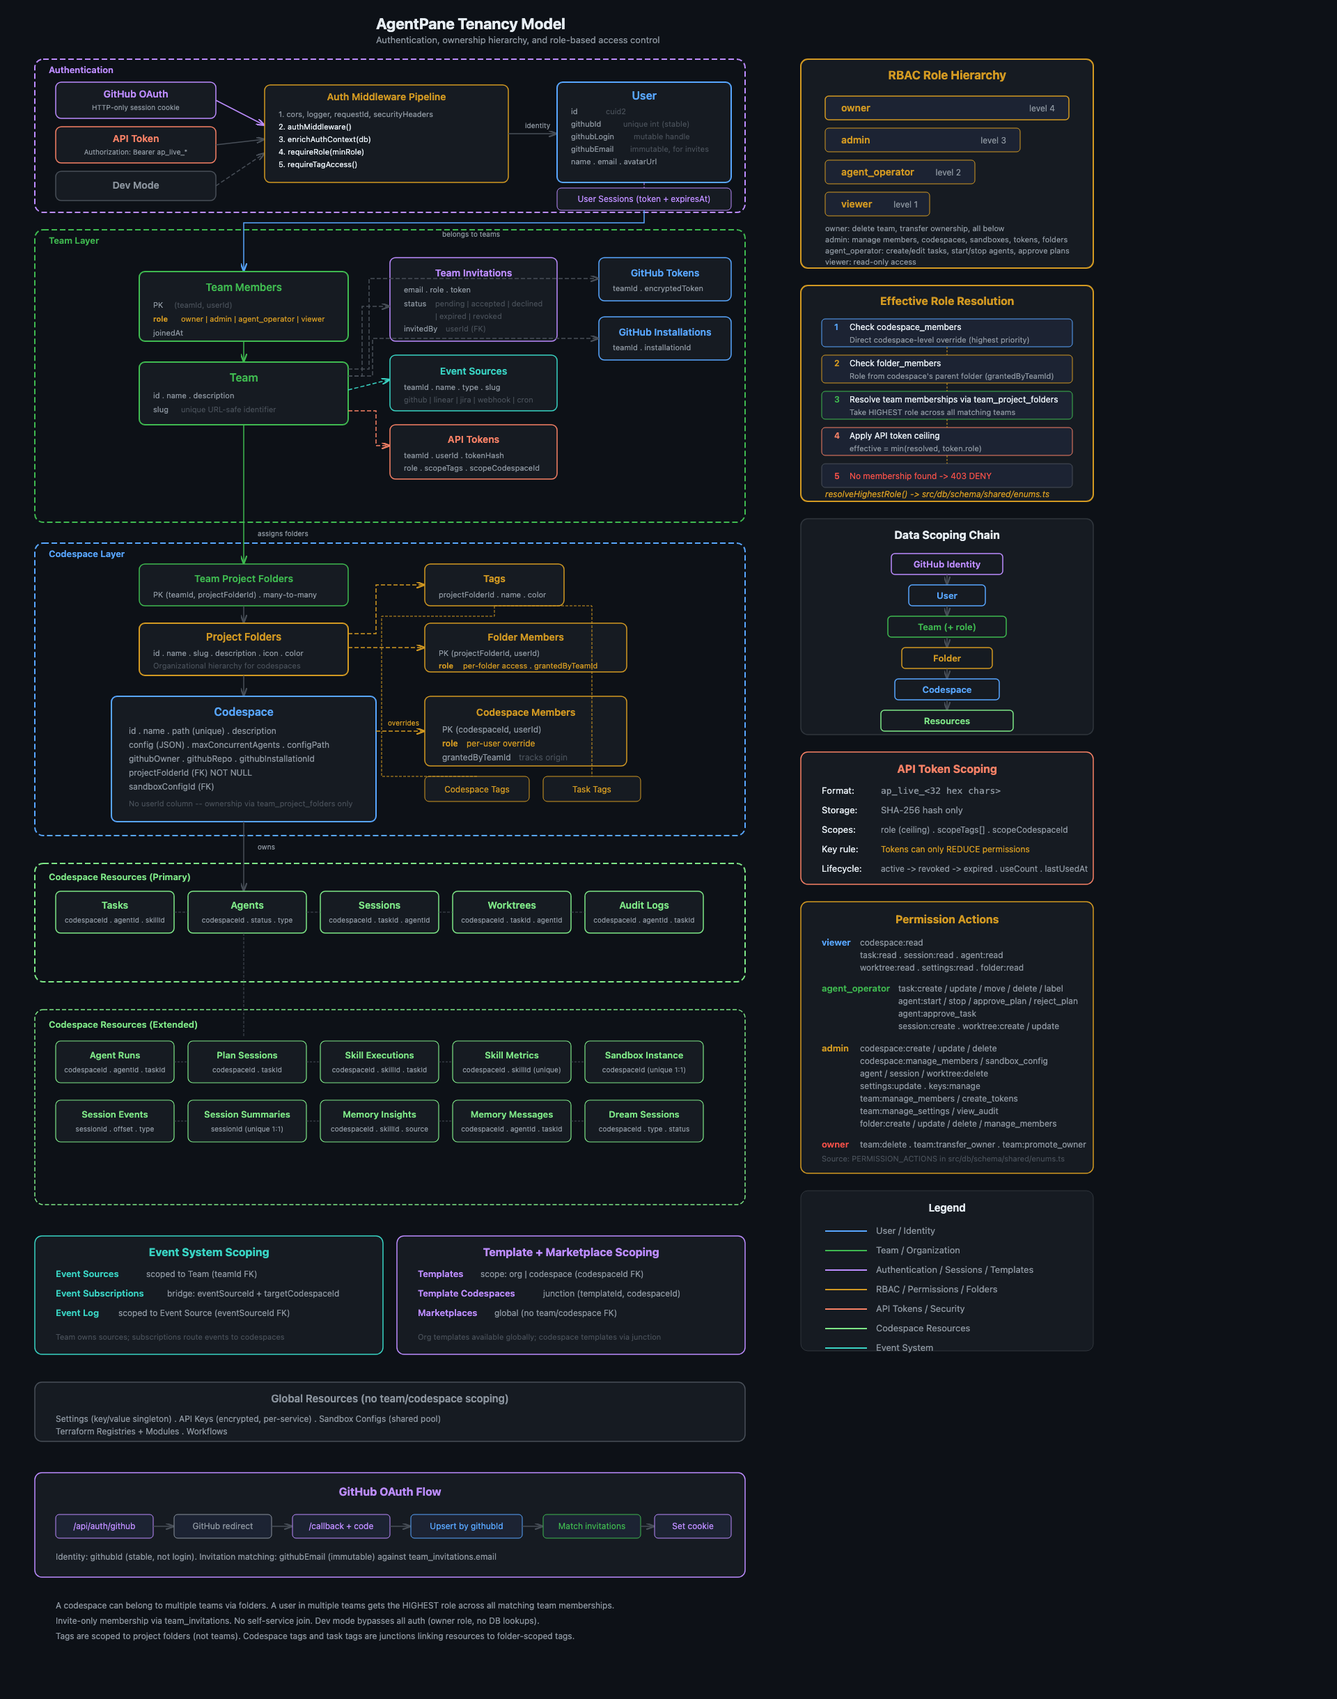
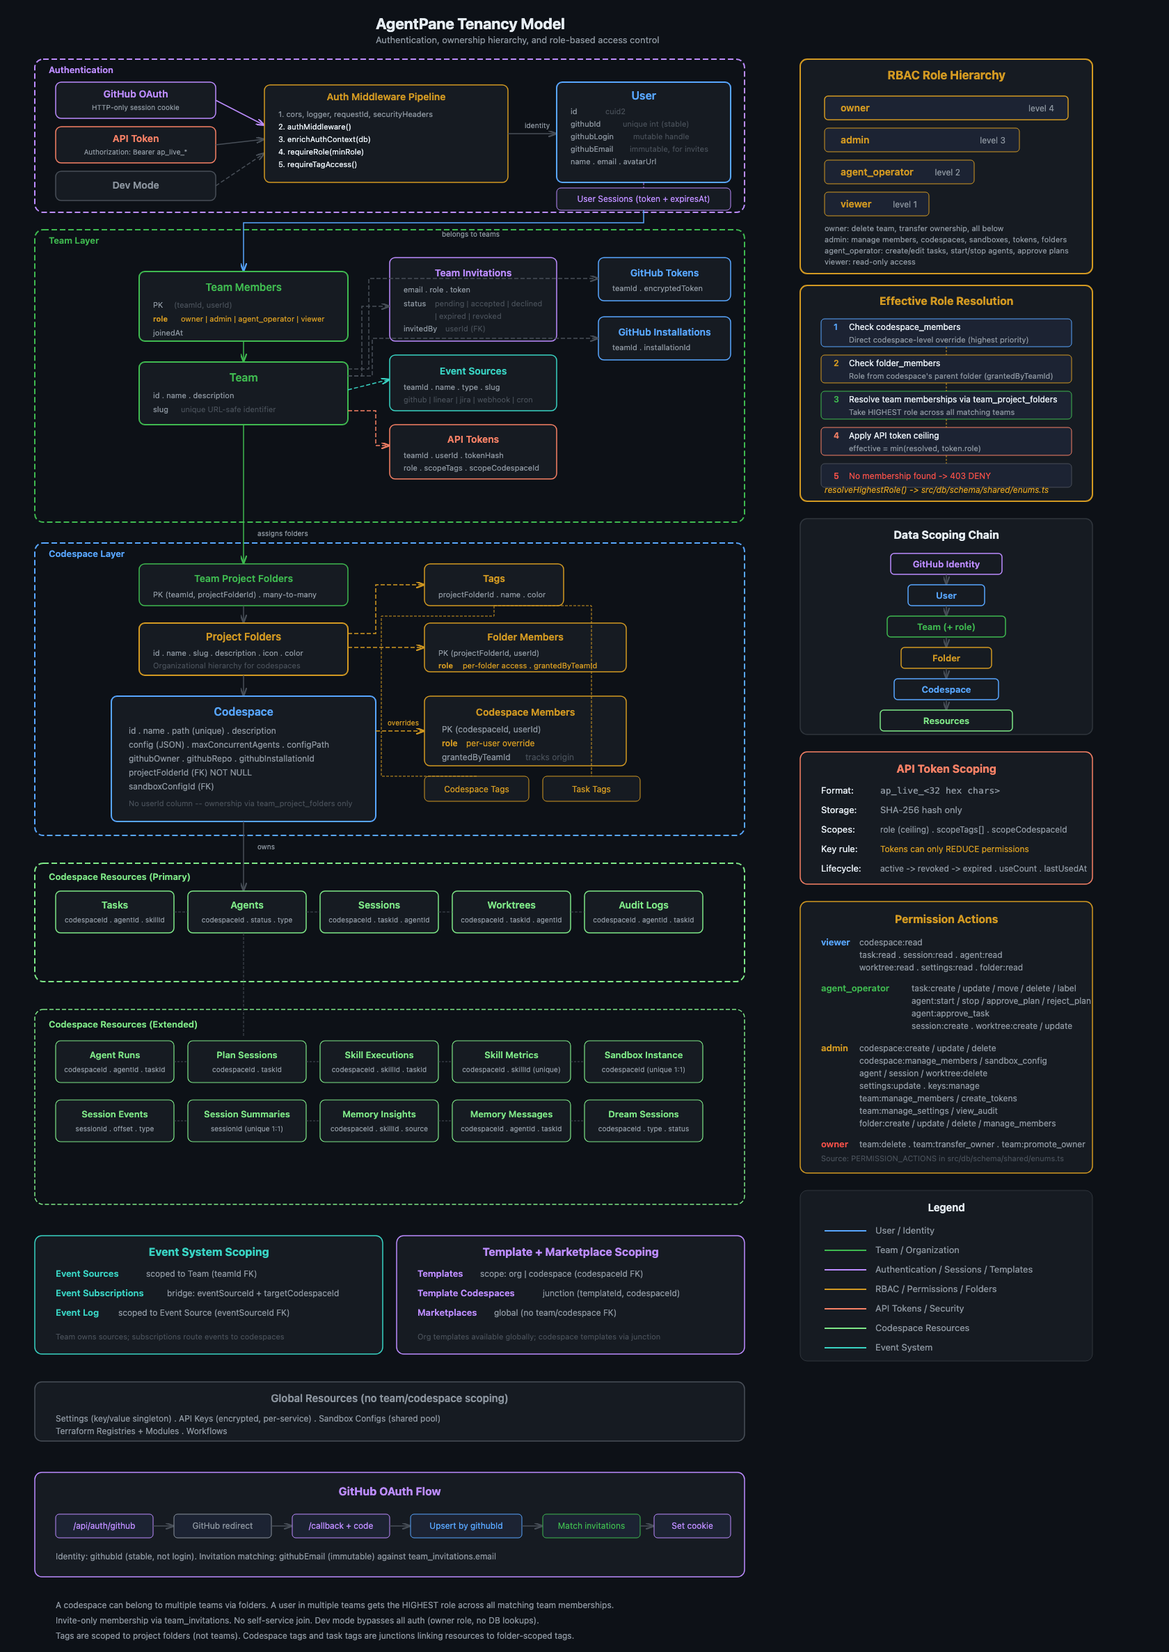
fix: resolve overlapping elements across all architecture diagrams
- Architecture: move Event System Tables text into its rect, relocate
  Memory section inside Host boundary as vertical column, reroute
  AgentCore arrow, move badge above service boxes row, expand Service
  Layer rect
- Durable Streams: expand 6 rects to contain overflowing text, fix SSE
  label position, increase text gap in Dual-Write section
- Tenancy Model: expand Legend and RBAC rects, increase agent_operator
  permission text spacing, fix grantedByTeamId gap, adjust
  resolveHighestRole position
- OpenShift: expand Pod rect to contain bottom element

Changed region(s): [[0.031, 0.0, 0.9286, 0.8108], [0.031, 0.7172, 0.65, 0.9979], [0.2786, 0.7172, 0.3095, 0.7484]]

diff --git a/docs/_architecture-diagram.html b/docs/_architecture-diagram.html
@@ -207,7 +207,7 @@ svg { display: block; }
 <text x="794" y="248" fill="#bc8cff" font-size="10">SSE</text>
 
 <!-- ==================== SERVICE LAYER ==================== -->
-<rect x="70" y="335" width="700" height="58" rx="8" fill="#161b22" stroke="#58a6ff" stroke-width="1.5"/>
+<rect x="70" y="335" width="700" height="66" rx="8" fill="#161b22" stroke="#58a6ff" stroke-width="1.5"/>
 <text x="420" y="355" text-anchor="middle" fill="#58a6ff" font-size="13" font-weight="600">Service Layer</text>
 <text x="420" y="372" text-anchor="middle" fill="#8b949e" font-size="10">Agent · Task · Session · Codespace · Workflow · Template · Marketplace · RBAC · Git · GitHubApp</text>
 <text x="420" y="386" text-anchor="middle" fill="#8b949e" font-size="9">CLIMonitor · ContainerAgent · PlanApproval · AgentQueue · SandboxConfig · TerraformCompose · TerraformRegistry</text>
@@ -294,7 +294,7 @@ svg { display: block; }
 <line x1="162" y1="768" x2="162" y2="1030" stroke="#484f58" stroke-width="1.5" stroke-dasharray="6,3" opacity="0.3" marker-end="url(#arrow-gray)"/>
 <line x1="362" y1="768" x2="520" y2="1030" stroke="#484f58" stroke-width="1.5" stroke-dasharray="6,3" opacity="0.3" marker-end="url(#arrow-gray)"/>
 <line x1="562" y1="768" x2="830" y2="1030" stroke="#484f58" stroke-width="1.5" stroke-dasharray="6,3" opacity="0.3" marker-end="url(#arrow-gray)"/>
-<path d="M 770 768 L 770 770 L 1160 770 L 1160 1030" fill="none" stroke="#f69d50" stroke-width="1.5" stroke-dasharray="6,3" opacity="0.4" marker-end="url(#arrow-aws)"/>
+<path d="M 770 768 L 770 770 L 960 770 L 960 1005 L 1185 1005 L 1185 1030" fill="none" stroke="#f69d50" stroke-width="1.5" stroke-dasharray="6,3" opacity="0.4" marker-end="url(#arrow-aws)"/>
 
 <!-- ==================== LEGEND ==================== -->
 <rect x="1250" y="400" width="420" height="220" rx="10" fill="#161b22" stroke="#30363d" stroke-width="1"/>
@@ -340,58 +340,61 @@ svg { display: block; }
 <text x="792" y="521" text-anchor="middle" fill="#8b949e" font-size="9">→ PostgreSQL (Remote)</text>
 
 <!-- ==================== Event System Tables ==================== -->
-<rect x="1250" y="780" width="420" height="140" rx="10" fill="#161b22" stroke="#d29922" stroke-width="1.5" stroke-dasharray="6,3"/>
-<text x="1460" y="722" text-anchor="middle" fill="#d29922" font-size="13" font-weight="600">Event System Tables</text>
+<rect x="1250" y="770" width="420" height="150" rx="10" fill="#161b22" stroke="#d29922" stroke-width="1.5" stroke-dasharray="6,3"/>
+<text x="1460" y="795" text-anchor="middle" fill="#d29922" font-size="13" font-weight="600">Event System Tables</text>
 
-<text x="1280" y="748" fill="#8b949e" font-size="12">eventSources</text>
-<text x="1280" y="770" fill="#8b949e" font-size="12">eventSubscriptions</text>
-<text x="1280" y="792" fill="#8b949e" font-size="12">eventLog</text>
-<text x="1280" y="814" fill="#8b949e" font-size="12">scheduleExecutions</text>
+<text x="1280" y="820" fill="#8b949e" font-size="12">eventSources</text>
+<text x="1280" y="842" fill="#8b949e" font-size="12">eventSubscriptions</text>
+<text x="1280" y="864" fill="#8b949e" font-size="12">eventLog</text>
+<text x="1280" y="886" fill="#8b949e" font-size="12">scheduleExecutions</text>
 
-<text x="1470" y="748" fill="#484f58" font-size="11">sources + secrets</text>
-<text x="1470" y="770" fill="#484f58" font-size="11">event → task maps</text>
-<text x="1470" y="792" fill="#484f58" font-size="11">processing history</text>
-<text x="1470" y="814" fill="#484f58" font-size="11">cron execution audit</text>
+<text x="1470" y="820" fill="#484f58" font-size="11">sources + secrets</text>
+<text x="1470" y="842" fill="#484f58" font-size="11">event → task maps</text>
+<text x="1470" y="864" fill="#484f58" font-size="11">processing history</text>
+<text x="1470" y="886" fill="#484f58" font-size="11">cron execution audit</text>
 
 <!-- Connection: Event tables -> Drizzle ORM — annotation badge -->
-<rect x="1250" y="830" width="120" height="16" rx="3" fill="#161b22" stroke="#d29922" stroke-width="0.5"/>
-<text x="1310" y="841" text-anchor="middle" fill="#d29922" font-size="9">← Drizzle ORM</text>
+<rect x="1250" y="900" width="120" height="16" rx="3" fill="#161b22" stroke="#d29922" stroke-width="0.5"/>
+<text x="1310" y="911" text-anchor="middle" fill="#d29922" font-size="9">← Drizzle ORM</text>
 
-<!-- ==================== MEMORY LAYER ==================== -->
-<rect x="1340" y="880" width="370" height="240" rx="10" fill="none" stroke="#a855f7" stroke-width="2" stroke-dasharray="8,4"/>
-<text x="1360" y="905" fill="#a855f7" font-size="13" font-weight="600">Agentic Self-Improving Memory</text>
+<!-- ==================== MEMORY LAYER (vertical layout inside Host) ==================== -->
+<rect x="985" y="585" width="190" height="420" rx="10" fill="none" stroke="#a855f7" stroke-width="2" stroke-dasharray="8,4"/>
+<text x="1080" y="607" text-anchor="middle" fill="#a855f7" font-size="12" font-weight="600">Agentic Self-Improving</text>
+<text x="1080" y="622" text-anchor="middle" fill="#a855f7" font-size="12" font-weight="600">Memory</text>
 
-<!-- MemoryStore (DB-backed) -->
-<rect x="1360" y="920" width="165" height="58" rx="8" fill="#161b22" stroke="#a855f7" stroke-width="1.5"/>
-<text x="1442" y="944" text-anchor="middle" fill="#a855f7" font-size="13" font-weight="600">MemoryStore</text>
-<text x="1442" y="964" text-anchor="middle" fill="#8b949e" font-size="10">observations · insights · recall</text>
+<!-- MemoryStore -->
+<rect x="995" y="635" width="170" height="52" rx="8" fill="#161b22" stroke="#a855f7" stroke-width="1.5"/>
+<text x="1080" y="657" text-anchor="middle" fill="#a855f7" font-size="12" font-weight="600">MemoryStore</text>
+<text x="1080" y="674" text-anchor="middle" fill="#8b949e" font-size="9">observations · insights · recall</text>
 
 <!-- DreamService -->
-<rect x="1540" y="920" width="155" height="58" rx="8" fill="#161b22" stroke="#a855f7" stroke-width="1.5"/>
-<text x="1617" y="944" text-anchor="middle" fill="#a855f7" font-size="13" font-weight="600">DreamService</text>
-<text x="1617" y="964" text-anchor="middle" fill="#8b949e" font-size="10">self-improving · Claude</text>
+<rect x="995" y="697" width="170" height="52" rx="8" fill="#161b22" stroke="#a855f7" stroke-width="1.5"/>
+<text x="1080" y="719" text-anchor="middle" fill="#a855f7" font-size="12" font-weight="600">DreamService</text>
+<text x="1080" y="736" text-anchor="middle" fill="#8b949e" font-size="9">self-improving · Claude</text>
 
 <!-- InsightDeriver -->
-<rect x="1360" y="994" width="165" height="44" rx="7" fill="#161b22" stroke="#a855f7" stroke-width="1"/>
-<text x="1442" y="1014" text-anchor="middle" fill="#a855f7" font-size="12" font-weight="600">InsightDeriver</text>
-<text x="1442" y="1030" text-anchor="middle" fill="#8b949e" font-size="9">derives recommendations</text>
+<rect x="995" y="759" width="170" height="42" rx="7" fill="#161b22" stroke="#a855f7" stroke-width="1"/>
+<text x="1080" y="779" text-anchor="middle" fill="#a855f7" font-size="11" font-weight="600">InsightDeriver</text>
+<text x="1080" y="794" text-anchor="middle" fill="#8b949e" font-size="9">derives recommendations</text>
 
 <!-- SkillTracking -->
-<rect x="1540" y="994" width="155" height="44" rx="7" fill="#161b22" stroke="#a855f7" stroke-width="1"/>
-<text x="1617" y="1014" text-anchor="middle" fill="#a855f7" font-size="12" font-weight="600">SkillTracking</text>
-<text x="1617" y="1030" text-anchor="middle" fill="#8b949e" font-size="9">execution metrics · scoring</text>
+<rect x="995" y="811" width="170" height="42" rx="7" fill="#161b22" stroke="#a855f7" stroke-width="1"/>
+<text x="1080" y="831" text-anchor="middle" fill="#a855f7" font-size="11" font-weight="600">SkillTracking</text>
+<text x="1080" y="846" text-anchor="middle" fill="#8b949e" font-size="9">execution metrics · scoring</text>
 
-<!-- DreamScheduler (thin bar below) -->
-<rect x="1360" y="1054" width="335" height="24" rx="4" fill="#161b22" stroke="#a855f7" stroke-width="1"/>
-<text x="1527" y="1070" text-anchor="middle" fill="#8b949e" font-size="10">DreamScheduler · 24h self-improvement cycle</text>
+<!-- DreamScheduler -->
+<rect x="995" y="863" width="170" height="32" rx="4" fill="#161b22" stroke="#a855f7" stroke-width="1"/>
+<text x="1080" y="880" text-anchor="middle" fill="#a855f7" font-size="10" font-weight="600">DreamScheduler</text>
+<text x="1080" y="892" text-anchor="middle" fill="#8b949e" font-size="8">24h self-improvement cycle</text>
 
-<!-- Connection: MemoryStore -> InsightDeriver -->
-<line x1="1442" y1="978" x2="1442" y2="994" stroke="#a855f7" stroke-width="1" stroke-dasharray="4,2"/>
-<line x1="1617" y1="978" x2="1617" y2="994" stroke="#a855f7" stroke-width="1" stroke-dasharray="4,2"/>
+<!-- Vertical connectors inside Memory column -->
+<line x1="1080" y1="687" x2="1080" y2="697" stroke="#a855f7" stroke-width="1" stroke-dasharray="4,2"/>
+<line x1="1080" y1="749" x2="1080" y2="759" stroke="#a855f7" stroke-width="1" stroke-dasharray="4,2"/>
+<line x1="1080" y1="801" x2="1080" y2="811" stroke="#a855f7" stroke-width="1" stroke-dasharray="4,2"/>
+<line x1="1080" y1="853" x2="1080" y2="863" stroke="#a855f7" stroke-width="1" stroke-dasharray="4,2"/>
 
-<!-- Connection: MemoryService -> Memory Layer (routed through right corridor x=1230) -->
-<path d="M 152 619 L 152 632 L 1230 632 L 1230 920 L 1340 920" fill="none" stroke="#a855f7" stroke-width="2" marker-end="url(#arrow-memory)"/>
-<text x="1235" y="740" fill="#a855f7" font-size="10" font-weight="600" writing-mode="tb">memory queries</text>
+<!-- Connection: MemoryService -> Memory column (routed below injector row) -->
+<path d="M 152 619 L 152 632 L 985 632" fill="none" stroke="#a855f7" stroke-width="2" marker-end="url(#arrow-memory)"/>
 
 <!-- ==================== RUNTIME / CLUSTER SECTIONS ==================== -->
 
@@ -600,8 +603,8 @@ svg { display: block; }
 <rect x="1182" y="264" width="85" height="18" rx="4" fill="#161b22" stroke="#d29922" stroke-width="1"/>
 <text x="1224" y="277" text-anchor="middle" fill="#d29922" font-size="9">← GitHub webhooks</text>
 <!-- Badge on GitHub Webhooks: targets Event System -->
-<rect x="895" y="1690" width="195" height="14" rx="3" fill="#161b22" stroke="#d29922" stroke-width="0.5"/>
-<text x="992" y="1700" text-anchor="middle" fill="#d29922" font-size="8">→ Event System (Event Processing)</text>
+<rect x="895" y="1674" width="195" height="14" rx="3" fill="#161b22" stroke="#d29922" stroke-width="0.5"/>
+<text x="992" y="1684" text-anchor="middle" fill="#d29922" font-size="8">→ Event System (Event Processing)</text>
 
 <!-- Connections: containers -> Anthropic API -->
 <line x1="190" y1="1206" x2="190" y2="1638" stroke="#bc8cff" stroke-width="1.5" stroke-dasharray="6,3" marker-end="url(#arrow-purple)"/>

diff --git a/docs/_durable-streams-architecture.html b/docs/_durable-streams-architecture.html
@@ -76,7 +76,7 @@ svg { display: block; }
 <text x="75" y="471" fill="#8b949e" font-size="9">Stream ID: terraform:{jobId} (7 types)</text>
 
 <!-- Task Creation Service -->
-<rect x="65" y="504" width="230" height="90" rx="7" fill="#161b22" stroke="#f0883e" stroke-width="1.5"/>
+<rect x="65" y="504" width="230" height="92" rx="7" fill="#161b22" stroke="#f0883e" stroke-width="1.5"/>
 <text x="180" y="524" text-anchor="middle" fill="#f0883e" font-size="12" font-weight="600">Task Creation Service</text>
 <text x="75" y="544" fill="#8b949e" font-size="9">task-creation:started · message · token</text>
 <text x="75" y="558" fill="#8b949e" font-size="9">task-creation:suggestion · questions · processing</text>
@@ -154,7 +154,7 @@ svg { display: block; }
 <text x="360" y="734" fill="#8b949e" font-size="9">Batched text -> SQLite (durable) · 100ms flush / 10 max</text>
 
 <!-- ==================== SQLite DB (below batcher) ==================== -->
-<rect x="340" y="770" width="310" height="130" rx="10" fill="#161b22" stroke="#7ee787" stroke-width="2"/>
+<rect x="340" y="770" width="310" height="132" rx="10" fill="#161b22" stroke="#7ee787" stroke-width="2"/>
 <text x="495" y="795" text-anchor="middle" fill="#7ee787" font-size="14" font-weight="600">SQLite: sessionEvents</text>
 <text x="495" y="813" text-anchor="middle" fill="#8b949e" font-size="10">session-events.ts (Drizzle ORM)</text>
 
@@ -210,7 +210,7 @@ svg { display: block; }
 <text x="915" y="566" text-anchor="middle" fill="#8b949e" font-size="9">Offset-based resume</text>
 
 <!-- Stream URL routing -->
-<rect x="710" y="590" width="270" height="155" rx="6" fill="#1c2333" stroke="#d29922" stroke-width="1"/>
+<rect x="710" y="590" width="270" height="158" rx="6" fill="#1c2333" stroke="#d29922" stroke-width="1"/>
 <text x="845" y="612" text-anchor="middle" fill="#d29922" font-size="11" font-weight="600">Stream URL Routing</text>
 <text x="720" y="634" fill="#8b949e" font-size="9">/v1/stream/sessions/{sessionId}</text>
 <text x="720" y="650" fill="#8b949e" font-size="9">/v1/stream/plans/{sessionId}</text>
@@ -287,8 +287,8 @@ svg { display: block; }
 
 <!-- Connection: Caddy SSE -> Client -->
 <path d="M 980 540 L 1020 540 L 1020 240 L 1060 240" fill="none" stroke="#3fb950" stroke-width="2" marker-end="url(#arrow-green)"/>
-<rect x="1013" y="370" width="38" height="16" rx="3" fill="#0d1117" stroke="#3fb950" stroke-width="0.5"/>
-<text x="1032" y="382" text-anchor="middle" fill="#3fb950" font-size="10">SSE</text>
+<rect x="1001" y="370" width="38" height="16" rx="3" fill="#0d1117" stroke="#3fb950" stroke-width="0.5"/>
+<text x="1020" y="382" text-anchor="middle" fill="#3fb950" font-size="10">SSE</text>
 
 <!-- ==================== COL 5: UI APPLICATION ==================== -->
 <rect x="1410" y="120" width="460" height="650" rx="10" fill="none" stroke="#58a6ff" stroke-width="1.5" stroke-dasharray="8,4"/>
@@ -304,7 +304,7 @@ svg { display: block; }
 <text x="1445" y="254" fill="#8b949e" font-size="9">Active sync tracking: Map&lt;sessionId, Subscription&gt;</text>
 
 <!-- TanStack DB Collections -->
-<rect x="1430" y="278" width="420" height="230" rx="8" fill="#161b22" stroke="#58a6ff" stroke-width="1.5"/>
+<rect x="1430" y="278" width="420" height="236" rx="8" fill="#161b22" stroke="#58a6ff" stroke-width="1.5"/>
 <text x="1640" y="300" text-anchor="middle" fill="#58a6ff" font-size="14" font-weight="600">TanStack DB Collections</text>
 <text x="1640" y="318" text-anchor="middle" fill="#8b949e" font-size="10">lib/sessions/collections.ts + domain-specific collections</text>
 
@@ -347,7 +347,7 @@ svg { display: block; }
 <text x="1445" y="504" fill="#8b949e" font-size="9">@tanstack/db + @tanstack/react-db</text>
 
 <!-- React Hooks -->
-<rect x="1430" y="530" width="200" height="100" rx="8" fill="#161b22" stroke="#58a6ff" stroke-width="2"/>
+<rect x="1430" y="530" width="200" height="102" rx="8" fill="#161b22" stroke="#58a6ff" stroke-width="2"/>
 <text x="1530" y="554" text-anchor="middle" fill="#58a6ff" font-size="13" font-weight="600">useSession()</text>
 <text x="1530" y="572" text-anchor="middle" fill="#8b949e" font-size="10">hooks/use-session.ts</text>
 <text x="1445" y="594" fill="#8b949e" font-size="9">useSessionSubscription()</text>
@@ -355,7 +355,7 @@ svg { display: block; }
 <text x="1445" y="622" fill="#8b949e" font-size="9">Returns reactive UI state</text>
 
 <!-- Reactive UI -->
-<rect x="1650" y="530" width="200" height="100" rx="8" fill="#161b22" stroke="#3fb950" stroke-width="1.5"/>
+<rect x="1650" y="530" width="200" height="102" rx="8" fill="#161b22" stroke="#3fb950" stroke-width="1.5"/>
 <text x="1750" y="554" text-anchor="middle" fill="#3fb950" font-size="13" font-weight="600">Reactive UI</text>
 <text x="1750" y="572" text-anchor="middle" fill="#8b949e" font-size="10">React components</text>
 <text x="1660" y="594" fill="#8b949e" font-size="9">Agent session panel</text>
@@ -394,7 +394,7 @@ svg { display: block; }
 <rect x="50" y="1062" width="350" height="92" rx="8" fill="#161b22" stroke="#7ee787" stroke-width="1.5"/>
 <text x="225" y="1084" text-anchor="middle" fill="#7ee787" font-size="12" font-weight="600">Dual-Write Pattern</text>
 <text x="65" y="1104" fill="#3fb950" font-size="10" font-weight="600">1. SQLite (source of truth)</text>
-<text x="240" y="1104" fill="#8b949e" font-size="10">-> persisted first, always available</text>
+<text x="250" y="1104" fill="#8b949e" font-size="10">-> persisted first, always available</text>
 <text x="65" y="1122" fill="#bc8cff" font-size="10" font-weight="600">2. Caddy/LMDB (real-time)</text>
 <text x="260" y="1122" fill="#8b949e" font-size="10">-> on-disk SSE stream delivery</text>
 <text x="65" y="1140" fill="#8b949e" font-size="10">LMDB enables offset-based resume after reconnect</text>

diff --git a/docs/_tenancy-model.html b/docs/_tenancy-model.html
@@ -234,7 +234,7 @@ svg { display: block; }
 <text x="635" y="1072" fill="#d29922" font-size="12" font-weight="600">role</text>
 <text x="670" y="1072" fill="#d29922" font-size="12">per-user override</text>
 <text x="635" y="1092" fill="#8b949e" font-size="12">grantedByTeamId</text>
-<text x="745" y="1092" fill="#484f58" font-size="12">tracks origin</text>
+<text x="755" y="1092" fill="#484f58" font-size="12">tracks origin</text>
 
 <!-- Connection: Codespace <- Codespace Members -->
 <line x1="540" y1="1050" x2="610" y2="1050" stroke="#d29922" stroke-width="1.5" stroke-dasharray="6,3" marker-end="url(#arrow-orange)"/>
@@ -403,7 +403,7 @@ svg { display: block; }
 <!-- ==================== RIGHT PANEL: RBAC ==================== -->
 
 <!-- Role Hierarchy -->
-<rect x="1150" y="85" width="420" height="300" rx="10" fill="#161b22" stroke="#d29922" stroke-width="2"/>
+<rect x="1150" y="85" width="420" height="308" rx="10" fill="#161b22" stroke="#d29922" stroke-width="2"/>
 <text x="1360" y="114" text-anchor="middle" fill="#d29922" font-size="17" font-weight="700">RBAC Role Hierarchy</text>
 
 <!-- Role bars - wider = more power -->
@@ -469,7 +469,7 @@ svg { display: block; }
 <line x1="1360" y1="654" x2="1360" y2="666" stroke="#d29922" stroke-width="1" stroke-dasharray="3,2"/>
 
 <!-- Formula -->
-<text x="1185" y="714" fill="#d29922" font-size="12" font-style="italic">resolveHighestRole() -> src/db/schema/shared/enums.ts</text>
+<text x="1185" y="708" fill="#d29922" font-size="12" font-style="italic">resolveHighestRole() -> src/db/schema/shared/enums.ts</text>
 
 <!-- ==================== OWNERSHIP CHAIN SUMMARY ==================== -->
 <rect x="1150" y="745" width="420" height="310" rx="10" fill="#161b22" stroke="#30363d" stroke-width="1.5"/>
@@ -534,10 +534,10 @@ svg { display: block; }
 <text x="1235" y="1394" fill="#8b949e" font-size="12">worktree:read . settings:read . folder:read</text>
 
 <text x="1180" y="1424" fill="#3fb950" font-size="13" font-weight="600">agent_operator</text>
-<text x="1290" y="1424" fill="#8b949e" font-size="12">task:create / update / move / delete / label</text>
-<text x="1290" y="1442" fill="#8b949e" font-size="12">agent:start / stop / approve_plan / reject_plan</text>
-<text x="1290" y="1460" fill="#8b949e" font-size="12">agent:approve_task</text>
-<text x="1290" y="1478" fill="#8b949e" font-size="12">session:create . worktree:create / update</text>
+<text x="1310" y="1424" fill="#8b949e" font-size="12">task:create / update / move / delete / label</text>
+<text x="1310" y="1442" fill="#8b949e" font-size="12">agent:start / stop / approve_plan / reject_plan</text>
+<text x="1310" y="1460" fill="#8b949e" font-size="12">agent:approve_task</text>
+<text x="1310" y="1478" fill="#8b949e" font-size="12">session:create . worktree:create / update</text>
 
 <text x="1180" y="1510" fill="#d29922" font-size="13" font-weight="600">admin</text>
 <text x="1235" y="1510" fill="#8b949e" font-size="12">codespace:create / update / delete</text>
@@ -554,7 +554,7 @@ svg { display: block; }
 <text x="1180" y="1668" fill="#484f58" font-size="11">Source: PERMISSION_ACTIONS in src/db/schema/shared/enums.ts</text>
 
 <!-- ==================== LEGEND ==================== -->
-<rect x="1150" y="1710" width="420" height="230" rx="10" fill="#161b22" stroke="#30363d" stroke-width="1"/>
+<rect x="1150" y="1710" width="420" height="245" rx="10" fill="#161b22" stroke="#30363d" stroke-width="1"/>
 <text x="1360" y="1740" text-anchor="middle" fill="#e6edf3" font-size="15" font-weight="600">Legend</text>
 
 <line x1="1185" y1="1768" x2="1245" y2="1768" stroke="#58a6ff" stroke-width="2"/>

diff --git a/docs/_openshift-deployment.html b/docs/_openshift-deployment.html
@@ -99,7 +99,7 @@ svg { display: block; }
 <line x1="270" y1="378" x2="270" y2="438" stroke="#484f58" stroke-width="1.5" marker-end="url(#arrow-gray)"/>
 
 <!-- AgentPane Pod -->
-<rect x="120" y="498" width="500" height="210" rx="8" fill="#161b22" stroke="#3fb950" stroke-width="2"/>
+<rect x="120" y="498" width="500" height="216" rx="8" fill="#161b22" stroke="#3fb950" stroke-width="2"/>
 <text x="370" y="522" text-anchor="middle" fill="#3fb950" font-size="15" font-weight="600">AgentPane Pod (start.sh)</text>
 
 <!-- Caddy front door container -->
